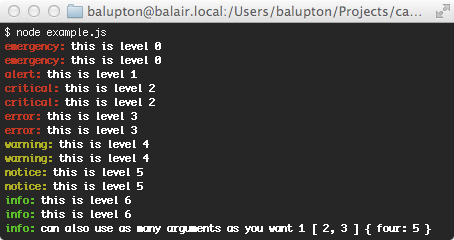
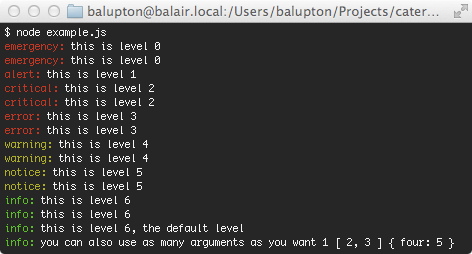
v2.0.2. Bugfix.
- v2.0.2 May 7, 2013
	- Fixed defaulting the log level
		- Closes [issue #6](https://github.com/bevry/caterpillar/issues/6)
reported by [Erik Dasque](https://github.com/edasque)

Changed region(s): [[0.0, 0.0, 1.0, 0.9917]]

diff --git a/History.md b/History.md
@@ -1,5 +1,9 @@
 ## History
 
+- v2.0.2 May 7, 2013
+	- Fixed defaulting the log level
+		- Closes [issue #6](https://github.com/bevry/caterpillar/issues/6) reported by [Erik Dasque](https://github.com/edasque)
+
 - v2.0.1 April 25, 2013
 	- Node 0.8 support
 
